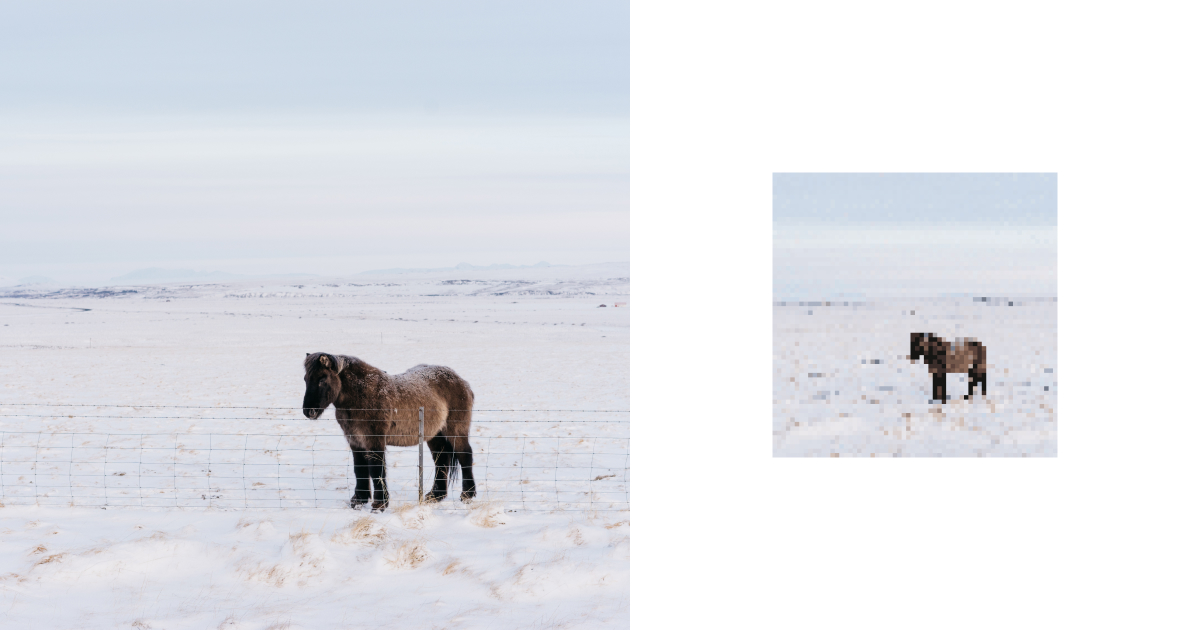
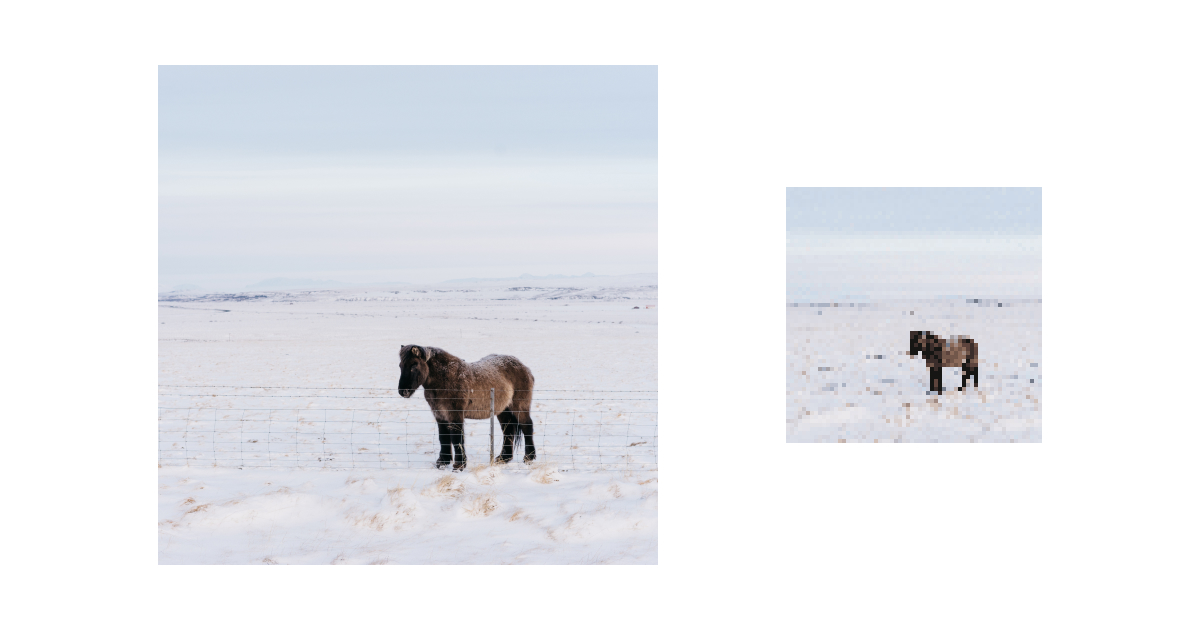
Update meta images

diff --git a/packages/app/src/components/SocialMeta.tsx b/packages/app/src/components/SocialMeta.tsx
@@ -15,7 +15,7 @@ export default function SocialMeta({
   const router = useRouter();
   const baseUrl = "https://ice64.com";
   const url = `${baseUrl}${router.asPath}`;
-  const ogImage = socialImage || `${baseUrl}/og-image.png`;
+  const ogImage = socialImage || `${baseUrl}/og-image-text.png`;
 
   return (
     <Head>
